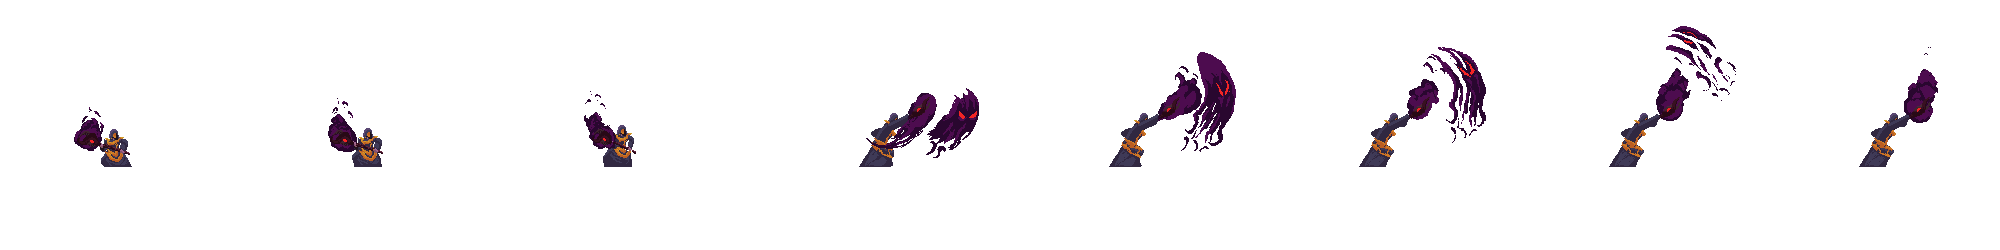
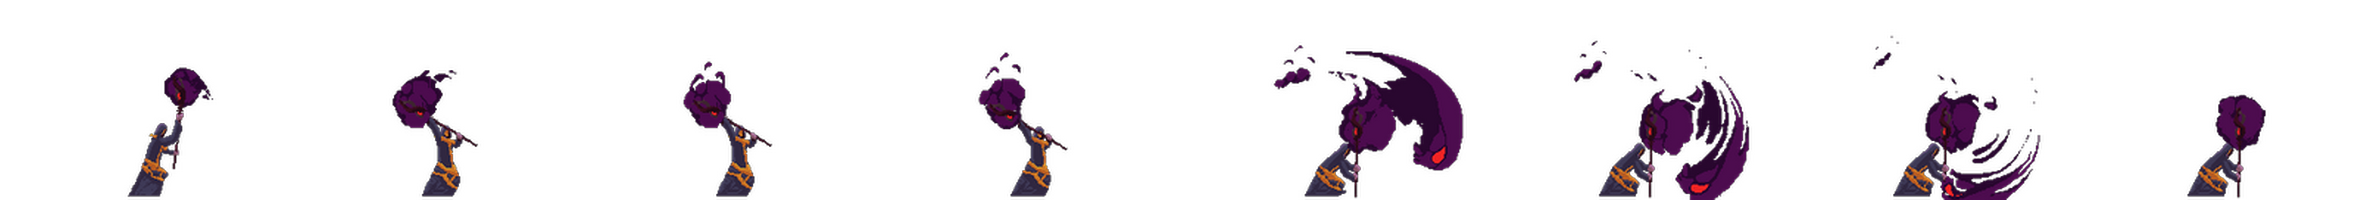
Edited the PNG file

diff --git a/index.html b/index.html
@@ -1,124 +1,42 @@
+<!DOCTYPE html>
+<html lang="en">
+
 <head>
-  <link rel="preconnect" href="https://fonts.googleapis.com" />
-  <link rel="preconnect" href="https://fonts.gstatic.com" crossorigin />
-  <link
-    href="https://fonts.googleapis.com/css2?family=Press+Start+2P&display=swap"
-    rel="stylesheet"
-  />
-  <style>
-    * {
-      box-sizing: border-box;
-      font-family: 'Press Start 2P', cursive;
-    }
-  </style>
+  <meta charset="UTF-8" />
+  <meta name="viewport" content="width=device-width, initial-scale=1.0" />
+  <meta http-equiv="X-UA-Compatible" content="ie=edge" />
+  <link rel="stylesheet" href="https://cdnjs.cloudflare.com/ajax/libs/font-awesome/5.12.1/css/all.min.css"
+    integrity="sha256-mmgLkCYLUQbXn0B1SRqzHar6dCnv9oZFPEC1g1cwlkk=" crossorigin="anonymous" />
+  <link rel="stylesheet" href="css/style.css" />
+  <script src="https://kit.fontawesome.com/081e71c64b.js" crossorigin="anonymous"></script>
+  <title>Fight Club</title>
 </head>
+
 <body>
-  <!-- red container div -->
-  <div style="position: relative; display: inline-block">
-    <!-- smaller red container div -->
-    <div
-      style="
-        position: absolute;
-        display: flex;
-        width: 100%;
-        align-items: center;
-        padding: 20px;
-      "
-    >
-      <!-- player health -->
-      <div
-        style="
-          position: relative;
-          width: 100%;
-          display: flex;
-          justify-content: flex-end;
-          border-top: 4px solid white;
-          border-left: 4px solid white;
-          border-bottom: 4px solid white;
-        "
-      >
-        <div style="background-color: red; height: 30px; width: 100%"></div>
-        <div
-          id="playerHealth"
-          style="
-            position: absolute;
-            background: #818cf8;
-            top: 0;
-            right: 0;
-            bottom: 0;
-            width: 100%;
-          "
-        ></div>
-      </div>
-
-      <!-- timer -->
-      <div
-        id="timer"
-        style="
-          background-color: black;
-          width: 100px;
-          height: 50px;
-          flex-shrink: 0;
-          display: flex;
-          align-items: center;
-          justify-content: center;
-          color: white;
-          border: 4px solid white;
-        "
-      >
-        10
-      </div>
-      <!-- enemy health -->
-      <div
-        style="
-          position: relative;
-          width: 100%;
-          border-top: 4px solid white;
-          border-bottom: 4px solid white;
-          border-right: 4px solid white;
-        "
-      >
-        <div style="background-color: red; height: 30px"></div>
-        <div
-          id="enemyHealth"
-          style="
-            position: absolute;
-            background: #818cf8;
-            top: 0;
-            right: 0;
-            bottom: 0;
-            left: 0;
-          "
-        ></div>
-      </div>
-      <div></div>
-    </div>
-    <div
-      id="displayText"
-      style="
-        position: absolute;
-        color: white;
-        align-items: center;
-        justify-content: center;
-        top: 0;
-        right: 0;
-        bottom: 0;
-        left: 0;
-        display: none;
-      "
-    >
-      Tie
-    </div>
-    <canvas></canvas>
+  <div class="join-container">
+    <header class="join-header">
+      <h1><i class="fa-solid fa-user-ninja"></i> Fight Club</h1>
+    </header>
+    <main class="join-main">
+      <form action="chat.html">
+        <div class="form-control">
+          <label for="username">Username</label>
+          <input type="text" name="username" id="username" placeholder="Enter username..." required />
+        </div>
+        <div class="form-control">
+          <label for="room">Select Your Fighter</label>
+          <select name="room" id="room">
+            <option value="JavaScript">Evil Wizard</option>
+            <option value="Python">Fantasy Warrior</option>
+            <option value="PHP">Hero Knight</option>
+            <option value="C#">Martial Hero</option>
+            <option value="Ruby">Wizard</option
+          </select>
+        </div>
+        <button type="submit" class="btn">Join The Fight</button>
+      </form>
+    </main>
   </div>
-
-  <script
-    src="https://cdnjs.cloudflare.com/ajax/libs/gsap/3.9.1/gsap.min.js"
-    integrity="sha512-H6cPm97FAsgIKmlBA4s774vqoN24V5gSQL4yBTDOY2su2DeXZVhQPxFK4P6GPdnZqM9fg1G3cMv5wD7e6cFLZQ=="
-    crossorigin="anonymous"
-    referrerpolicy="no-referrer"
-  ></script>
-  <script src="js/utils.js"></script>
-  <script src="js/classes.js"></script>
-  <script src="index.js"></script>
 </body>
+
+</html>

diff --git a/ind1ex.html b/ind1ex.html
@@ -1,0 +1,124 @@
+<head>
+  <link rel="preconnect" href="https://fonts.googleapis.com" />
+  <link rel="preconnect" href="https://fonts.gstatic.com" crossorigin />
+  <link
+    href="https://fonts.googleapis.com/css2?family=Press+Start+2P&display=swap"
+    rel="stylesheet"
+  />
+  <style>
+    * {
+      box-sizing: border-box;
+      font-family: 'Press Start 2P', cursive;
+    }
+  </style>
+</head>
+<body>
+  <!-- red container div -->
+  <div style="position: relative; display: inline-block">
+    <!-- smaller red container div -->
+    <div
+      style="
+        position: absolute;
+        display: flex;
+        width: 100%;
+        align-items: center;
+        padding: 20px;
+      "
+    >
+      <!-- player health -->
+      <div
+        style="
+          position: relative;
+          width: 100%;
+          display: flex;
+          justify-content: flex-end;
+          border-top: 4px solid white;
+          border-left: 4px solid white;
+          border-bottom: 4px solid white;
+        "
+      >
+        <div style="background-color: red; height: 30px; width: 100%"></div>
+        <div
+          id="playerHealth"
+          style="
+            position: absolute;
+            background: #818cf8;
+            top: 0;
+            right: 0;
+            bottom: 0;
+            width: 100%;
+          "
+        ></div>
+      </div>
+
+      <!-- timer -->
+      <div
+        id="timer"
+        style="
+          background-color: black;
+          width: 100px;
+          height: 50px;
+          flex-shrink: 0;
+          display: flex;
+          align-items: center;
+          justify-content: center;
+          color: white;
+          border: 4px solid white;
+        "
+      >
+        10
+      </div>
+      <!-- enemy health -->
+      <div
+        style="
+          position: relative;
+          width: 100%;
+          border-top: 4px solid white;
+          border-bottom: 4px solid white;
+          border-right: 4px solid white;
+        "
+      >
+        <div style="background-color: red; height: 30px"></div>
+        <div
+          id="enemyHealth"
+          style="
+            position: absolute;
+            background: #818cf8;
+            top: 0;
+            right: 0;
+            bottom: 0;
+            left: 0;
+          "
+        ></div>
+      </div>
+      <div></div>
+    </div>
+    <div
+      id="displayText"
+      style="
+        position: absolute;
+        color: white;
+        align-items: center;
+        justify-content: center;
+        top: 0;
+        right: 0;
+        bottom: 0;
+        left: 0;
+        display: none;
+      "
+    >
+      Tie
+    </div>
+    <canvas></canvas>
+  </div>
+
+  <script
+    src="https://cdnjs.cloudflare.com/ajax/libs/gsap/3.9.1/gsap.min.js"
+    integrity="sha512-H6cPm97FAsgIKmlBA4s774vqoN24V5gSQL4yBTDOY2su2DeXZVhQPxFK4P6GPdnZqM9fg1G3cMv5wD7e6cFLZQ=="
+    crossorigin="anonymous"
+    referrerpolicy="no-referrer"
+  ></script>
+  <script src="js/utils.js"></script>
+  <script src="js/classes.js"></script>
+  <script src="index.js"></script>
+</body>

diff --git a/index.js b/index.js
@@ -39,7 +39,7 @@ const player = new Fighter({
     x: 0,
     y: 0
   },
-  imageSrc: './img/evilWizard/Idle.png',
+  imageSrc: './img/samuraiMack/Idle.png',
   framesMax: 8,
   scale: 2.5,
   offset: {
@@ -48,31 +48,31 @@ const player = new Fighter({
   },
   sprites: {
     idle: {
-      imageSrc: './img/evilWizard/Idle.png',
+      imageSrc: './img/samuraiMack/Idle.png',
       framesMax: 8
     },
     run: {
-      imageSrc: './img/evilWizard/Run.png',
+      imageSrc: './img/samuraiMack/Run.png',
       framesMax: 8
     },
     jump: {
-      imageSrc: './img/evilWizard/Jump.png',
+      imageSrc: './img/samuraiMack/Jump.png',
       framesMax: 2
     },
     fall: {
-      imageSrc: './img/evilWizard/Fall.png',
+      imageSrc: './img/samuraiMack/Fall.png',
       framesMax: 2
     },
     attack1: {
-      imageSrc: './img/evilWizard/Attack1.png',
-      framesMax: 8
+      imageSrc: './img/samuraiMack/Attack1.png',
+      framesMax: 6
     },
     takeHit: {
-      imageSrc: './img/evilWizard/Take Hit - white silhouette.png',
+      imageSrc: './img/samuraiMack/Take Hit - white silhouette.png',
       framesMax: 4
     },
     death: {
-      imageSrc: './img/evilWizard/Death.png',
+      imageSrc: './img/samuraiMack/Death.png',
       framesMax: 6
     }
   },
